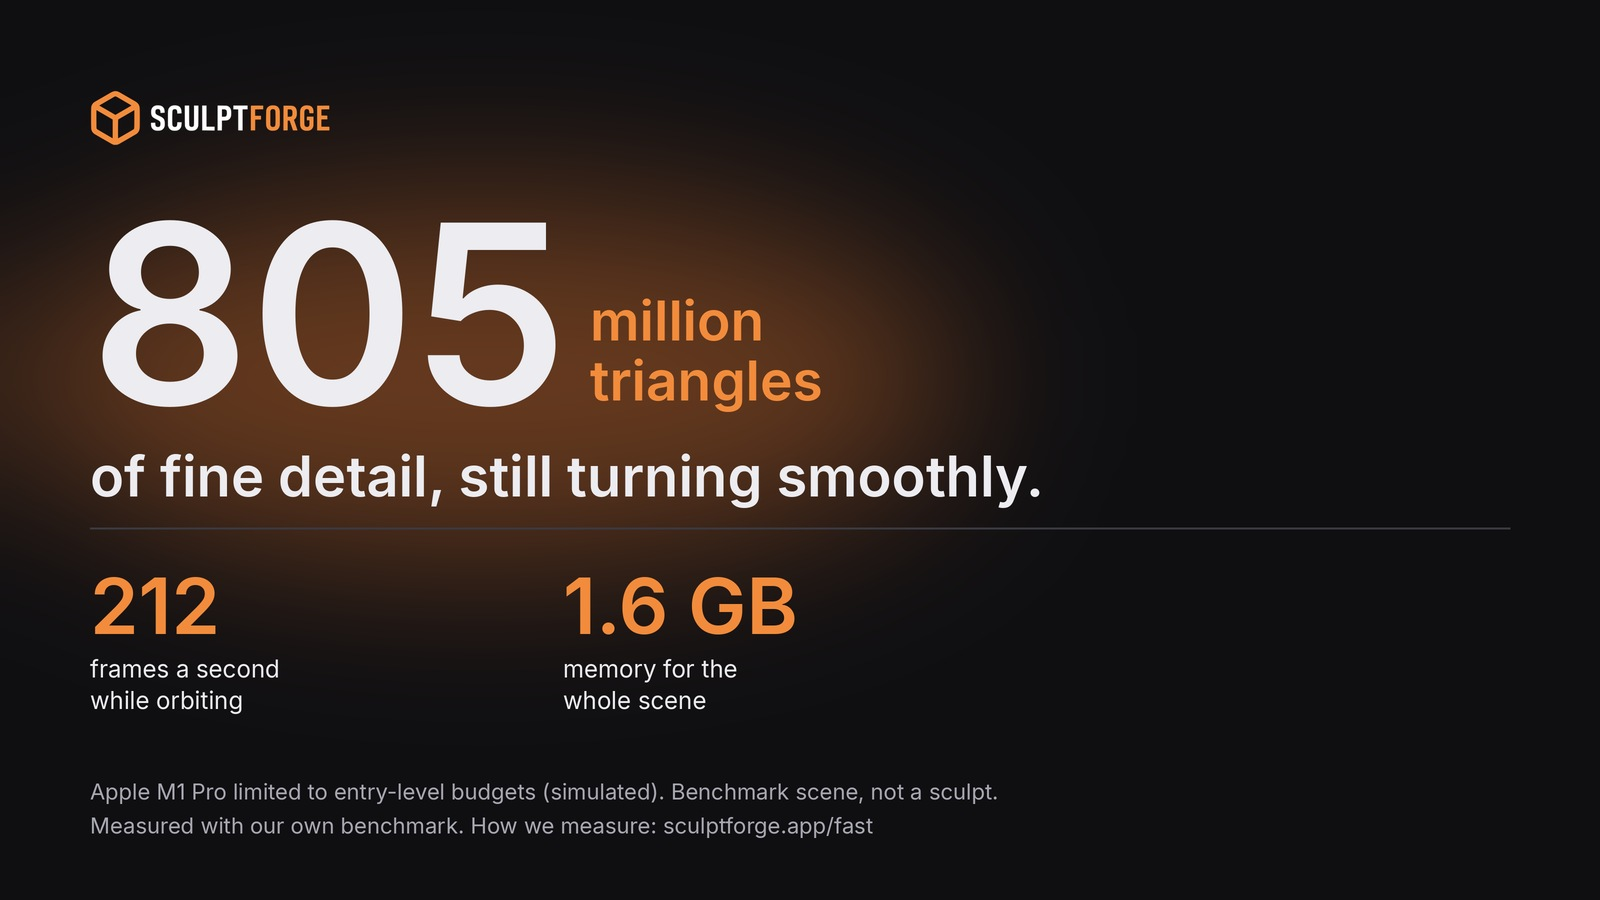
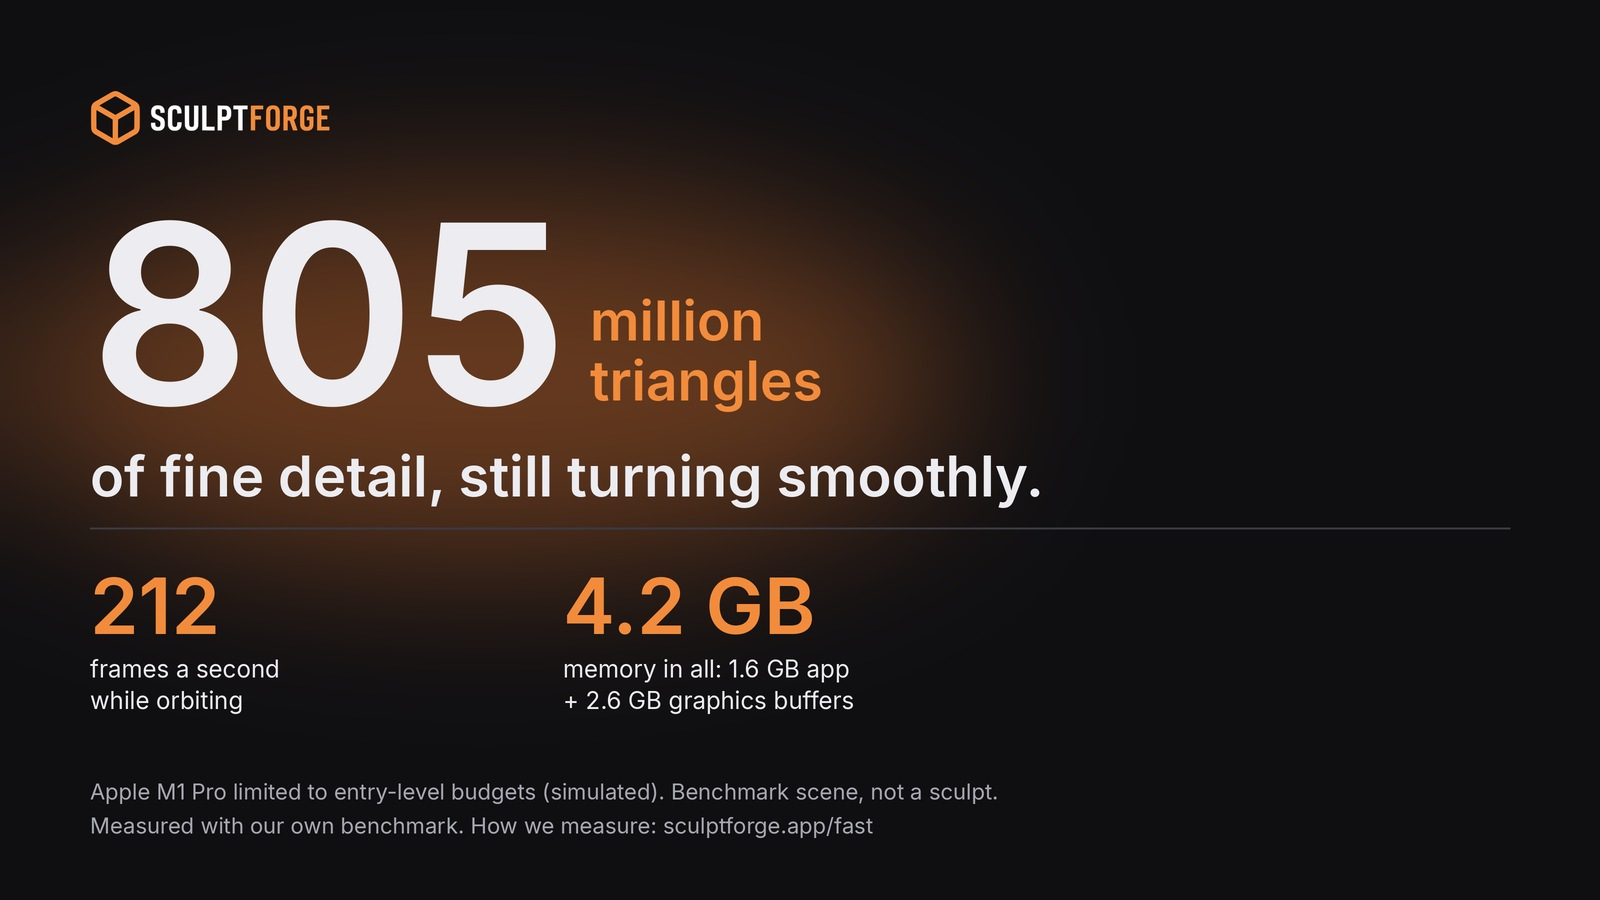
Site: memory figure is the whole footprint (1.6 GB app + 2.6 GB graphics buffers, about 4.2 GB), home and performance page and card (site data)

Changed region(s): [[0.3438, 0.6222, 0.5312, 0.8089]]

diff --git a/website/performance/index.html b/website/performance/index.html
@@ -88,10 +88,10 @@
       more detail than a plain mesh. These are the figures we measure with SculptForge's own benchmark, with the
       machine named and the steps to repeat each one.</p>
     <figure style="margin:20px 0">
-      <img src="../media/engine-numbers-805-212.jpg" width="1600" height="900" loading="lazy" style="width:100%;height:auto;border-radius:8px" alt="805 million triangles of fine detail orbiting at 212 frames a second and 1.6 GB of memory, measured on an Apple M1 Pro limited to entry-level budgets (simulated), a benchmark scene and not a sculpt">
+      <img src="../media/engine-numbers-805-212.jpg?v=2" width="1600" height="900" loading="lazy" style="width:100%;height:auto;border-radius:8px" alt="805 million triangles of fine detail orbiting at 212 frames a second and 4.2 GB of memory in all (1.6 GB for the app plus 2.6 GB of graphics buffers), measured on an Apple M1 Pro limited to entry-level budgets (simulated), a benchmark scene and not a sculpt">
     </figure>
     <ul>
-      <li><strong>212 frames a second</strong> orbiting 805 million micro triangles of fine detail in our benchmark scene (not a sculpt), on an Apple M1 Pro limited to the entry-level tier (simulated), with 1.6 GB of memory for the whole scene. Median of three runs (211 to 213) on the released 0.13.11.</li>
+      <li><strong>212 frames a second</strong> orbiting 805 million micro triangles of fine detail in our benchmark scene (not a sculpt), on an Apple M1 Pro limited to the entry-level tier (simulated), with about 4.2 GB of memory in all: 1.6 GB for the app plus 2.6 GB of graphics buffers, which on integrated graphics such as the M1 Pro are system memory. Median of three runs (211 to 213) on the released 0.13.11.</li>
       <li><strong>237 frames a second</strong> orbiting the same 805-million-triangle scene on a Windows desktop with an AMD Ryzen 5 5600X and an NVIDIA RTX 3060 (median of 4 runs, range 232 to 239; 0.13.9 as released). The scene uses 3.5 to 3.7 GB of memory and 2.6 GB of video memory, and the first stroke has one stall of about 0.3 seconds.</li>
       <li><strong>657 frames a second</strong> orbiting the smaller 104-million-triangle benchmark scene on that desktop (an earlier development build).</li>
       <li><strong>1.2 GB</strong> of memory for the whole application with 201 million triangles of fine detail, on that Windows desktop.</li>

diff --git a/website/index.html b/website/index.html
@@ -336,7 +336,7 @@ b.querySelector(".news-bar-x").onclick=function(){b.hidden=true;try{localStorage
         <div class="grid">
           <article class="card">
             <h3>Dense scans that keep up</h3>
-            <p>Orbiting 805 million micro triangles in our benchmark scene (not a sculpt) averages 212 frames a second on an Apple M1 Pro limited to entry-level budgets (simulated), using 1.6 GB of memory (median of three runs, measured on 0.13.11).</p>
+            <p>Orbiting 805 million micro triangles in our benchmark scene (not a sculpt) averages 212 frames a second on an Apple M1 Pro limited to entry-level budgets (simulated), using about 4.2 GB of memory in all, 1.6 GB for the app plus 2.6 GB of graphics buffers (median of three runs, measured on 0.13.11).</p>
             <p>A 33-million-triangle head's slowest frame in a full test is 103 ms on the entry-level tier and 132 ms on an RTX 3060. Big brushes still trail the pen. Other numbers are the median of three runs, with the raw results published.</p>
           </article>
           <article class="card">
